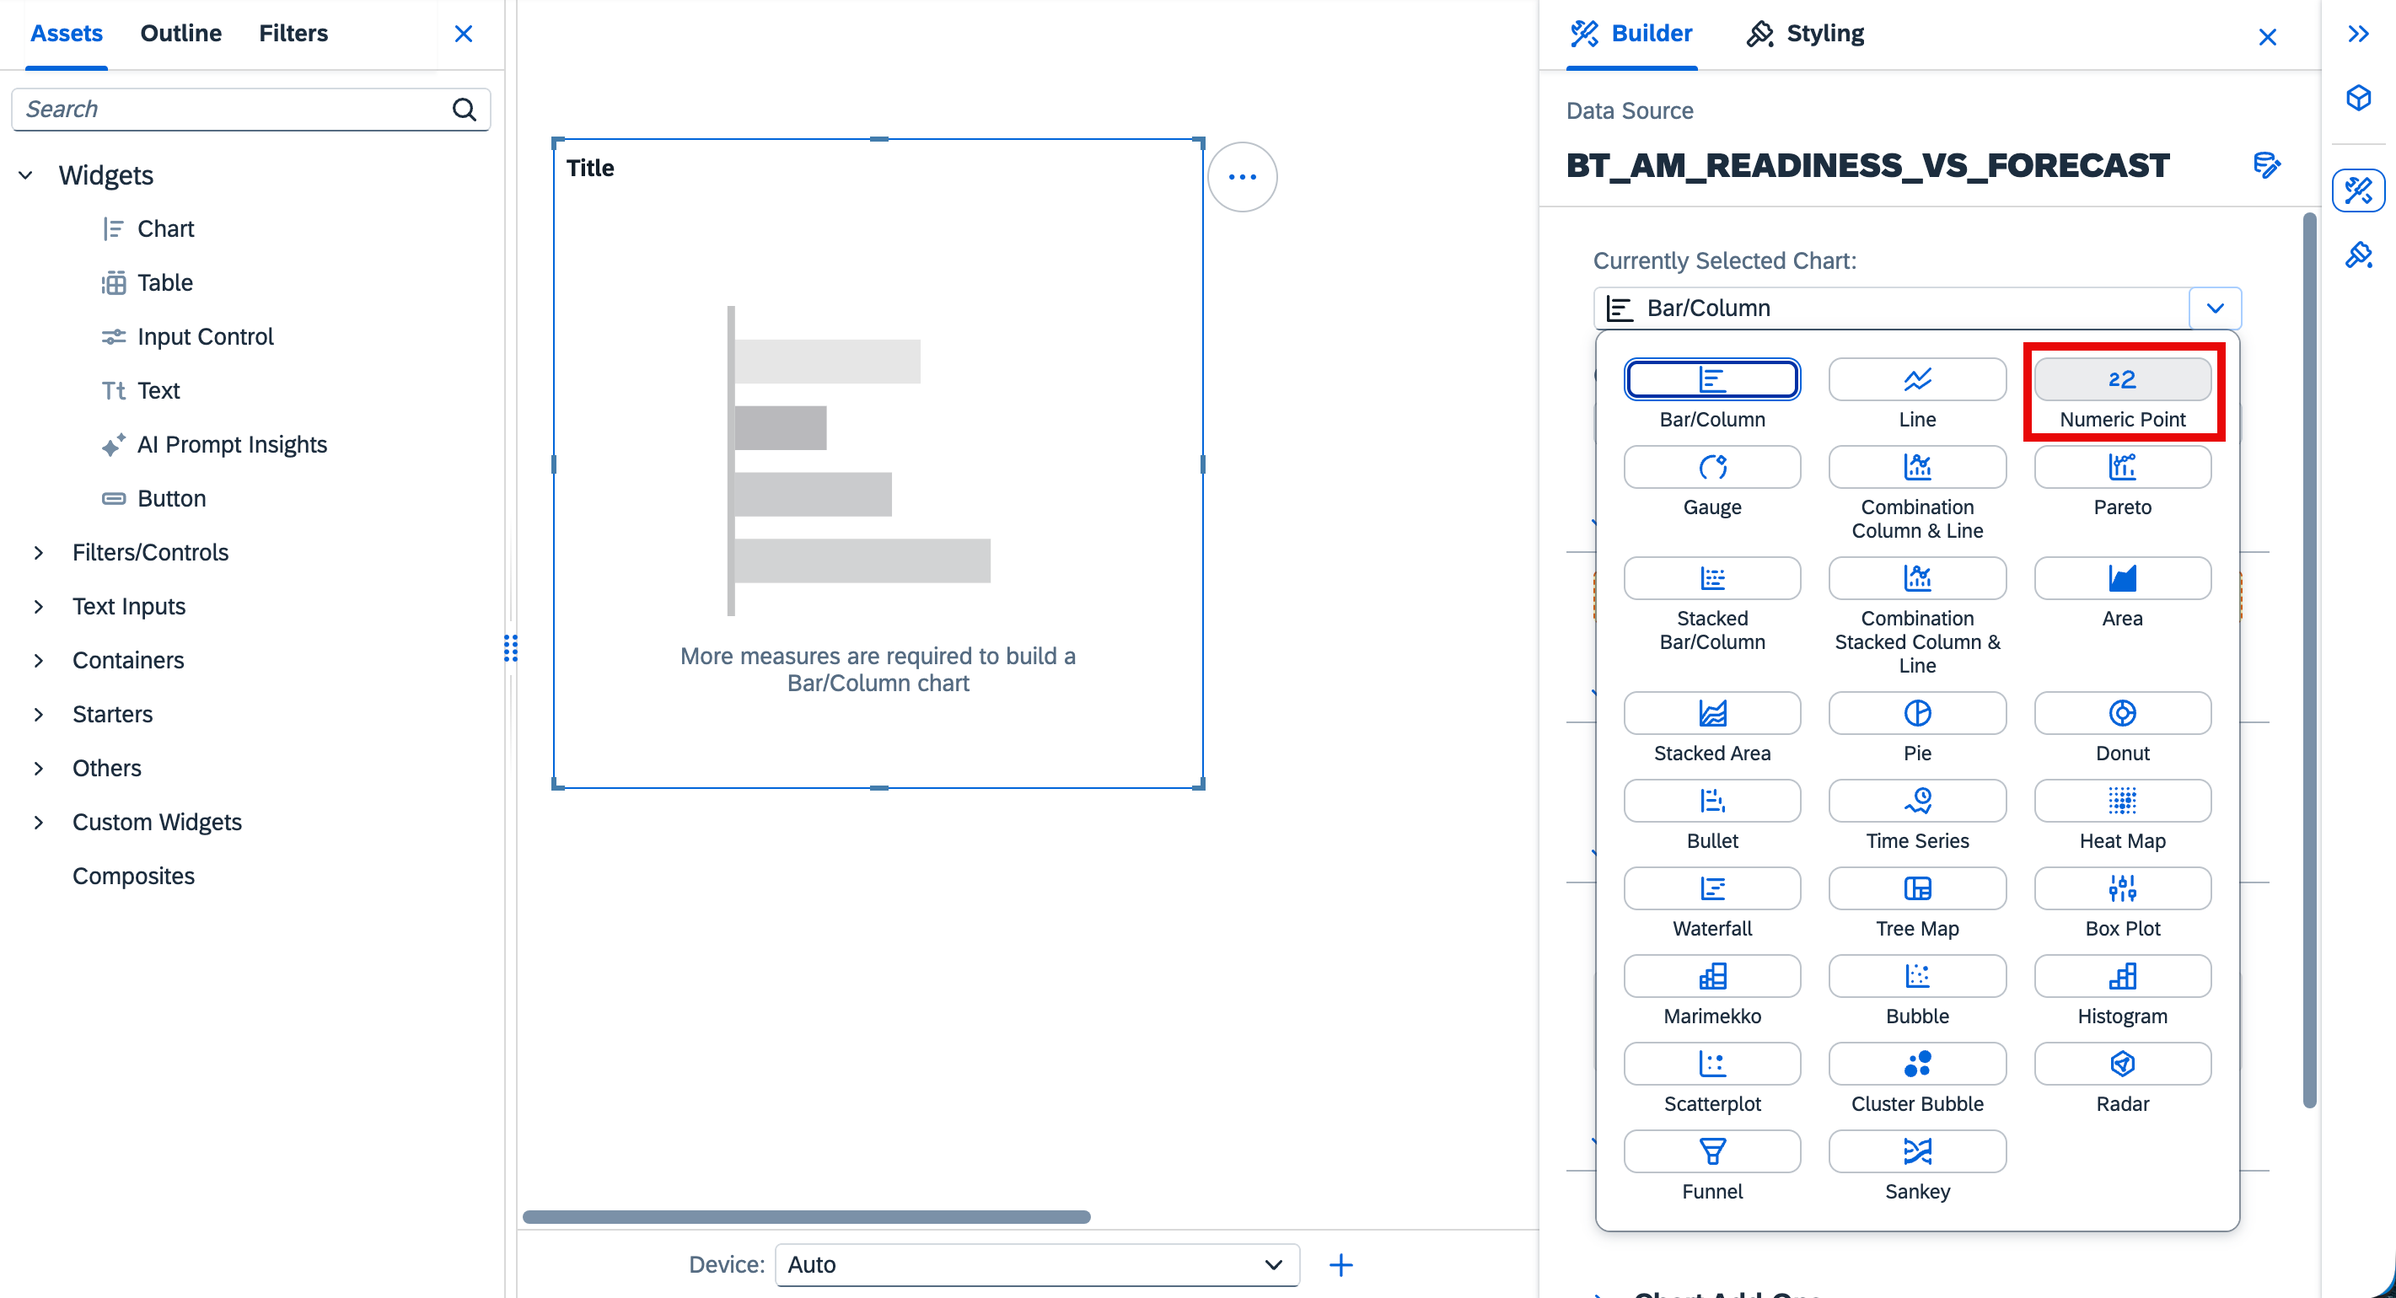
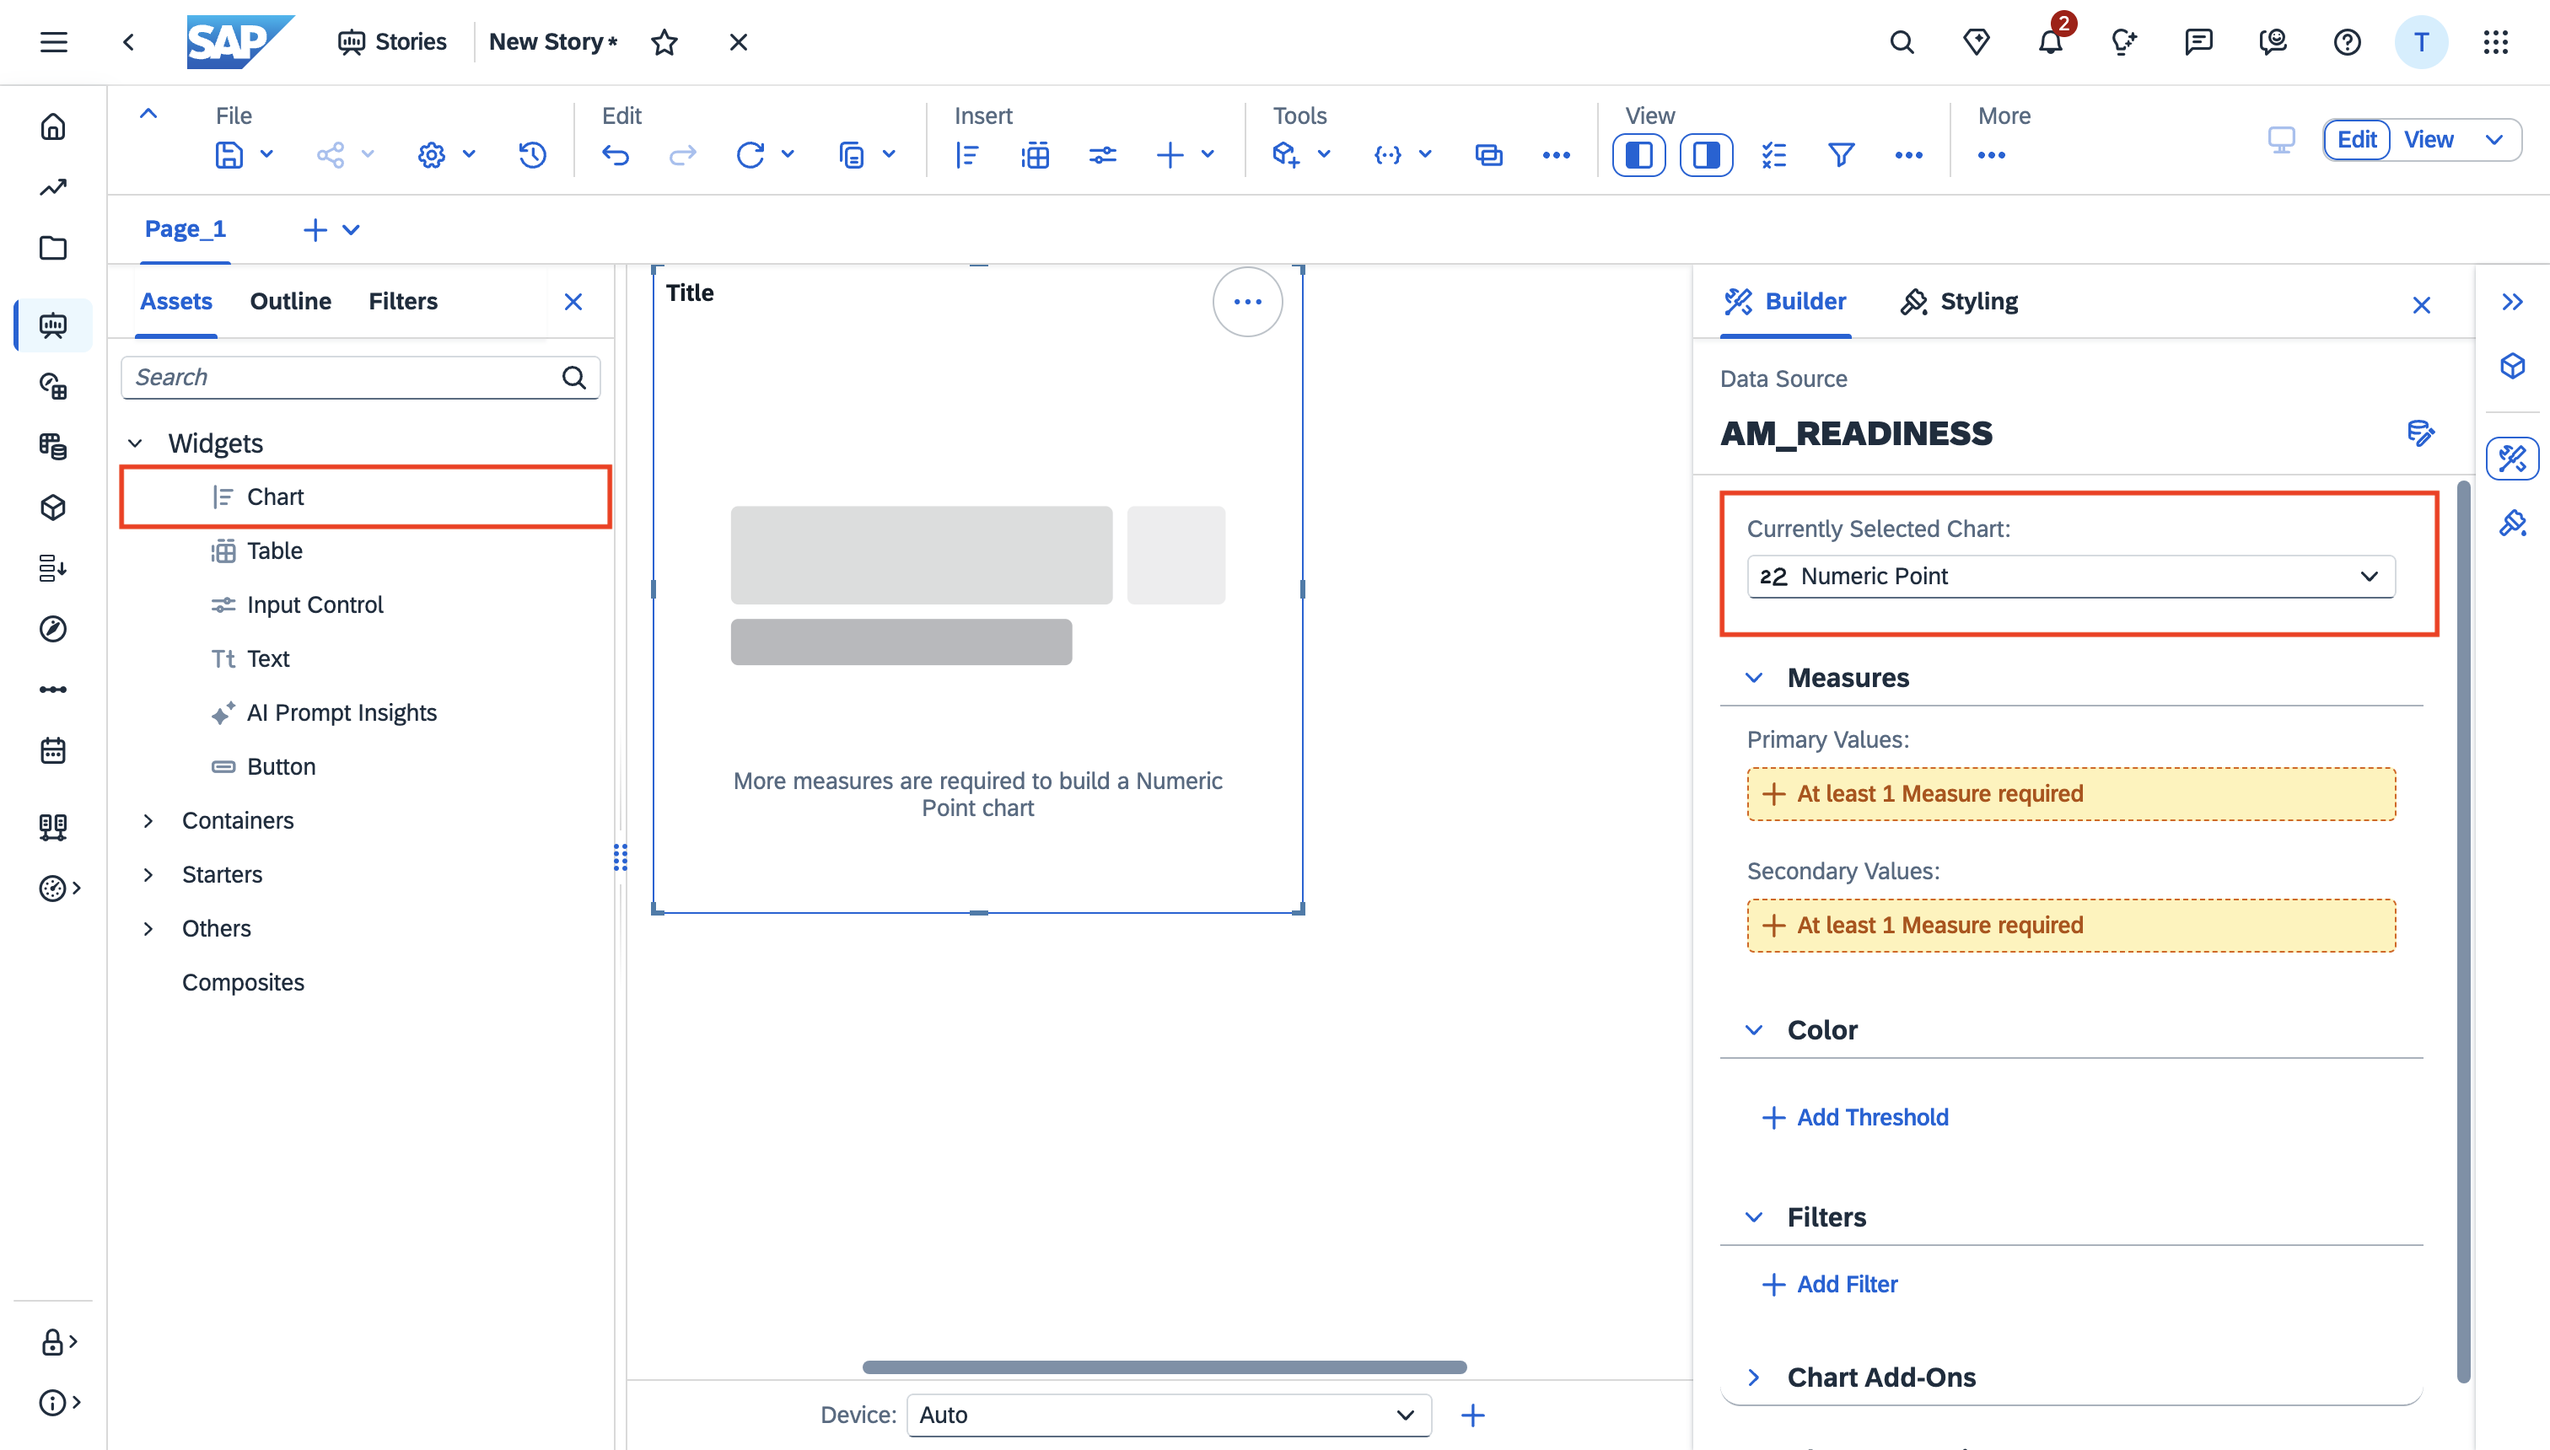
SAC dashboard changes leaner  model

diff --git a/exercises/ex6/README.md b/exercises/ex6/README.md
@@ -1,4 +1,4 @@
-# Creating a Story in SAP Analytics Cloud — Employee Readiness vs Forecast
+# Creating a Story in SAP Analytics Cloud
 
 ## Overview
 
@@ -6,37 +6,34 @@ In this exercise, we will build the **Employee Readiness vs Forecast** dashboard
 
 A Story in SAP Analytics Cloud is a reporting and visualization tool that allows users to analyse data through charts, tables, filters, and interactive dashboards. Stories can be created using imported or live data models and can be shared across the organization. The end result of this exercise will be as below.
 
-<img src="./images/KPI_Overview.png" width="1000"/><br/>
-
+<br>![KPI_Overview](./images/KPI_Overview.png)
 
 ## Prerequisites
 
 Before creating a story, ensure that:
 
-- You have access to SAP Analytics Cloud. URL: (TODO)
+- You have access to [SAP Analytics Cloud](https://trial-bdc-sac-3.eu10.sapanalytics.cloud/).
 - A data model is available and accessible (built in the previous exercise)
 - You have the required permissions to create and save stories.
 
 ## Create Story and Import Model
 
 ### Step 1: Create a Canvas Story
-
-<img src="./images/SAC_Canvas.png" width="500"/><br/>
 1. From the SAC home screen, select **Stories**.
 2. Click on **Canvas**.
 
-### Step 2: Change Page Title
-1. Change the Page title as shown below:<br/>
+<br>![SAC_Canvas](./images/SAC_Canvas.png)
 
-<img src="./images/pageTitle.png" width="500"/><br/>
+### Step 2: Change Page Title
+1. Change the Page title by double clicking the tile as shown below.Rename the page title as `Executive Summary`<br/>
+
+<br>![pageTitle](./images/pageTitle.png)
 
 ### Step 3: Select a Model or Dataset
-1. Search for your Model or Dataset in the `SAPSRC` folder and select it. <br/>
-<img src="./images/Select_Datamodel.png" width="500"/><br/>
-<img src="./images/Select_Datamodel_3.png" width="500"/><br/>
+1. Search for your Model which you built in the previous exercise. `SAPSRC` is the Datasphere connection. Search for your space name which is same as your username and select the model that you built in the previous exercise. <br/>
 
-2. Once the data is now connected to the story, Drag & drop **Chart** under **Widget** into the canvas.<br/>
-<img src="./images/Select_Chart_Type.png" width="500"/><br/>
+<br>![addModel1](./images/addModel1.png)
+<br>![addModel2](./images/addModel2.png)
 
 3. In the next sections, we will create the KPI tiles and charts that make up the Executive Summary page.<br/>
 
@@ -46,70 +43,156 @@ Before creating a story, ensure that:
 
 The top row of the dashboard contains **four Numeric Point (KPI) widgets** that display the most critical readiness metrics at a glance.
 
-<img src="./images/KPI_Overview.png" width="500"/><br/>
+<br>![KPI_Overview](./images/KPI_Overview.png)
 
 ### Insert a Numeric Point Widget
 
-1. Make sure you are on the Builder tab.
-2. Select **Numeric Point**.
+1. Make sure you are on the Builder tab. Drag and drop the chart widget.
+2. Set the chart type to **Numeric Point**.
 3. Resize it to occupy roughly one-sixth of the page width.
 
-<img src="./images/NumericPoint.png" width="500"/><br/>
+<br>![numericPoint](./images/numericPoint.png)
+
+4. For each of the next four Numeric Point charts, you will do the following:
+- Open the Builder & add a new measure
+
+<br>![addMeasure](./images/addMeasure.png)
+
+- Add a new Calculation
+
+<br>![addCalc](./images/addCalc.png)
+
+- In the calculation dialog, select `Calculated Measure`. Set a meaningful name for the measure. Add the calculation formula. Click `OK`.
+
+<br>![calculatedMeasureDetails](./images/calculatedMeasureDetails.png)
+
+- Add a Colour Threshold as follows: Add Colour and Threshold
+
+<br>![addColor](./images/addColor.png)
+
+<br>![addThresh](./images/addThresh.png)
+
+- Add the KPI name and set the range for each of the KPIs and `Apply`.
+
+<br>![applyRange](./images/applyRange.png)
+
+- Add the Colour Threshold for each of the KPIs.
+
+<br>![applyThreshold](./images/applyThreshold.png)
+
 > **Note:**
-> You will repeat this insert step for each of the five KPI tiles below. Place them side by side in a single row across the full page width. Let us see in the next steps how to create each of the KPI tiles.
+> You will repeat this insert step for each of the five KPI tiles below. Place them side by side in a single row across the full page width. Let us see in the next steps how to create each of the KPI tiles. Follow the above instructions for each of the tiles with the details and formulae mentioned for each below.
 
 ---
 
 ### Chart 1: Overall Readiness Rate
+Create a Numeric Point chart widget with the steps mentioned above.
+- Name (ID): `IS_READY_NOW_RATE`
+
+- Formula: ["AM_READINESS":IS_READY]/["AM_READINESS":HEADCOUNT]*100
+
+- Title: Overall Readiness Rate
+
+Color Threshold Range: <br/>
+
+<br>![applyRange](./images/applyRange.png)
 
 ### Chart 2: Fast Track Rate
+Create a Numeric Point chart widget with the steps mentioned above.
+- Name (ID): `IS_ON_TRACK_RATE`
+
+- Formula: ["AM_READINESS":IS_FAST_TRACK]/["AM_READINESS":HEADCOUNT]*100
+
+- Title: Fast Track Rate
+
+<br>![applyRange](./images/applyRange2.png)
 
 ### Chart 3: Needs Coaching Rate
+Create a Numeric Point chart widget with the steps mentioned above.
+Name (ID): `NEEDS_COACHING_RATE`
+
+Formula: ["AM_READINESS":IS_NEEDS_COACHING]/["AM_READINESS":HEADCOUNT]*100
+
+- Title: Needs Coaching Rate
+
+<br>![applyRange](./images/applyRange3.png)
 
 ### Chart 4: High Potential Individual Rate
+Create a Numeric Point chart widget with the steps mentioned above.
+- Name (ID): `HIGH_POTENTIAL_INDIVIDUAL_RATE`
+
+- Formula: ["AM_READINESS":IS_HIGH_POTENTIAL]/["AM_READINESS":HEADCOUNT]*100
+
+- Title: High Potential Individual Rate
+
+<br>![applyRange](./images/applyRange4.png)
 
 ---
 
 ### Insert a Donut Chart Widget
 1. Make sure you are on the Builder tab.
-2. Select **Donut Chart**.
-3. Resize it to occupy roughly one-sixth of the page width on the fifth spot <br/>
-<img src="./images/donutChart.png" width="500"/><br/>
+2. Add a new Chart and select type as **Donut Chart**.
+3. Resize it to occupy roughly one-sixth of the page width on the fifth and sixth spot.
+4. For each of the donut charts, add the measure and dimension.
 
-4. We will add one more donut chart on the top row
+<br>![donutChart](./images/donutChart.png) <br/>
+
+> **Note:**
+> You will repeat this insert step for each of the 2 donut chart tiles below. Place them side by side in a single row across the full page width in the fifth and the sixth spot. Let us see in the next steps how to create each of the two KPIs tiles.
 
 ### Chart 5: Milestone Status Breakdown
+- Title: Milestone Status Breakdown
+- Measure: `READINESS_TIER_RANK`
+- Dimension: `DEPT_MILESTONE_STATUS`
 
+<br>![donut1](./images/donut1.png) <br/>
 
 ### Chart 6: Readiness Tier Breakdown
+- Title: Readiness Tier Breakdown
+- Measure: `READINESS_TIER_RANK`
+- Dimension: `READINESS_TIER`
+
+<br>![donut2](./images/donut2.png) <br/>
 
 ---
 ### Insert a Bar Chart Widget
-1. One the second row, add a new **Bar Chart** from the Builder tab.<br/>
-<img src="./images/barChart.png" width="500"/><br/>
+1. On the second row, add a new **Bar Chart** from the Builder tab.
+2. Set the chart type to `Bar/Column`. Set the Chart Orientation to either Vertical or Horizontal.
+3. For each of the bar charts, add the measure and dimension.
+
+<br>![barChart](./images/barChart.png) <br/>
 
 ### Chart 7: Milestone Gaps By Department
-
+- Title: Milestone Gaps By Department
+- Measure: `MILESTONE_GAP`
+- Dimension: `DEPARTMENT`
+- Chart Orientation: `Vertical`
 
 ### Chart 8: Projected Completions (12Mo. Projection) Vs. Required Completions
+- Title: Projected Completions Vs. Required Completions
+- Measure(s): `PROJECTED_COMPLETIONS_SUM`, `REQUIRED_COMPLETIONS_SUM`
+- Dimension: `DEPARTMENT`
+- Chart Orientation: `Horizontal`
 
 ---
 
-## Explore Smart Insights in SAC
+## Explore Smart Insights in SAC: OPTIONAL
 
 To make the dashboard interactive, add **Smart Insights**. 
 Smart Insights is an augmented analytics feature in SAP Analytics Cloud that automatically explains why a specific data point or variance looks the way it does — surfacing the key drivers behind a value using statistical analysis, presented as a combination of natural language text and a supporting chart.
 
-<img src="./images/Smart_Insights.png" width="500"/><br/>
-
 1. Open the story in View or Edit mode.
-2. Click on the Donut chart **Department Milestone**.
+2. Click on the Donut chart **Milestone Gaps By Department**.
 3. From the context menu, select Smart Insights.
 4. The Smart Insights panel opens on the right side, showing:
       - A text explanation of the top contributors to that value
-      - A visualization (e.g. ranked bar chart) showing which dimension members are driving the result
+      - On collapsing the insights, a visualization (e.g. ranked bar chart) showing which dimension members are driving the result is also depicted.
+5. Use the smart insights feature on other charts as needed to gather further understanding.
 
-<img src="./images/Smart_Insights_View.png" width="500"/><br/>
+
+<br>![smartInsights1](./images/smartInsights1.png) <br/>
+
+<br>![smartInsights2](./images/smartInsights2.png) <br/>
 
 >What It Tells You
 

diff --git a/exercises/ex5/README.md b/exercises/ex5/README.md
@@ -3,7 +3,7 @@
 In this exercise, we will create an integrated data model. We will use the data product published from SAP Snowflake and perform modelling in SAP Datasphere.
 
 ## Pre-requisites
-- A custom space in SAP Datasphere provided to you named after your username
+- A custom space in [SAP Datasphere](https://trial-bdc-datasphere-3.eu10.hcs.cloud.sap/) provided to you named after your username
 - Custom, Derived data product has been installed in the space in the previous exercise
 
 ## Exercise 
@@ -19,7 +19,7 @@ We have 12 tables to create an integrated view. For this use case, we will use t
 There are other KPIs that can be derived from the other tables as well. But for our need, the four tables above are sufficient.
 
 ### Create a Fact View: Department Forecasts
-1. Open **Data Builder** in SAP Datasphere (TODO)
+1. Open **Data Builder** in [SAP Datasphere](https://trial-bdc-datasphere-3.eu10.hcs.cloud.sap/)
 <br>![dataBuilder](./images/dataBuilder.png)
 
 2. Search for the space and open it. Your space will have your username Eg. `TACXXXXXXXXX`
@@ -233,7 +233,7 @@ LEFT JOIN (
 
 
 ### Create Integrated Analytic Model
-1. Open **Data Builder** in SAP Datasphere (TODO)
+1. Open **Data Builder** in [SAP Datasphere](https://trial-bdc-datasphere-3.eu10.hcs.cloud.sap/)
 <br>![dataBuilder](./images/dataBuilder.png)
 
 2. Search for the space and open it. Your space will have your username Eg. `ACXXXXXXXXX`

diff --git a/exercises/ex2/README.md b/exercises/ex2/README.md
@@ -1,6 +1,6 @@
 # Exercise 2 - HANDS-ON: Consume SAP-managed Data product in Enterprise Snowflake
 
-In this exercise, we will learn how to run simple ML workflows in Snowflake. Open Snowflake which is included in our SAP BDC Formation. Here is the [Snowflake tenant](TODO).
+In this exercise, we will learn how to run simple ML workflows in Snowflake. Open Snowflake which is included in our SAP BDC Formation. Here is the [Snowflake tenant](https://188ec0ba-2073-4fff-9922-b677717b7e9a.sharing.hdl.prod-eu20.hanacloud.ondemand.com).
 In Snowflake, upload the notebook provided as shown in the image below:
 
 <br>![uploadNotebook](./images/uploadNotebook.png)

diff --git a/exercises/ex0/README.md b/exercises/ex0/README.md
@@ -27,6 +27,10 @@ The exercises are as follows:
 - [Exercise 6 - Create a report in SAP Analytics Cloud](../ex6/README.md)
 
 ## Access to Tenants
-URLs
-Username: ABSBDS2983293
+- [SAP Business Data Cloud Cockpit](https://trial-bdc-core-3.eu10.hcs.cloud.sap/bdc-ui/index.html)
+- [SAP Analytics Cloud](https://trial-bdc-sac-3.eu10.sapanalytics.cloud/)
+- [SAP Datasphere](https://trial-bdc-datasphere-3.eu10.hcs.cloud.sap/)
+- [SAP Snowflake](https://188ec0ba-2073-4fff-9922-b677717b7e9a.sharing.hdl.prod-eu20.hanacloud.ondemand.com/)
+
+Username: TAXXXXXXXXXXXX
 Password: shared during the session

diff --git a/exercises/ex4/README.md b/exercises/ex4/README.md
@@ -15,7 +15,7 @@ Without auto-approval enabled, the steward must manually approve each data produ
 
 ## HANDS-ON: Install Data Product in SAP Datasphere
 ### Access Request creation and approval
-1. Navigate to SAP Datasphere.
+1. Navigate to [SAP Datasphere](https://trial-bdc-datasphere-3.eu10.hcs.cloud.sap/).
 2. Open **Catalog & Marketplace** and search for the data product `Workforce Transformation Intelligence`.
 <br>![openCatalog](./images/openCatalog.png)
 
